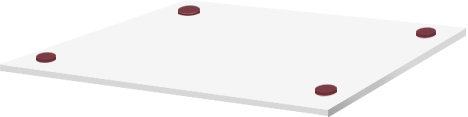
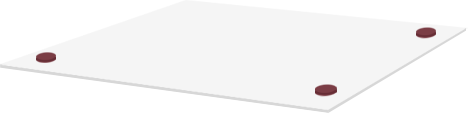
Changes images for `composition` block

diff --git a/src/index.html b/src/index.html
@@ -536,7 +536,7 @@
                         <div class="tooltip__wrap">
                           <div class="tooltip__icon"></div>
                           <div class="tooltip__text-wrap">
-                            <span class="tooltip__text">Верхний слой утеплителя</span>
+                            <span class="tooltip__text">Базальтовый утеплитель</span>
                           </div>
                         </div>
                       </div>
@@ -553,7 +553,7 @@
                         <div class="tooltip__wrap">
                           <div class="tooltip__icon"></div>
                           <div class="tooltip__text-wrap">
-                            <span class="tooltip__text">Нижний слой утеплителя</span>
+                            <span class="tooltip__text">Базальтовый утеплитель</span>
                           </div>
                         </div>
                       </div>

diff --git a/src/scss/blocks/advantages/composition.scss b/src/scss/blocks/advantages/composition.scss
@@ -36,7 +36,7 @@
   transform: translateY(-20%);
   transition: 0.4s ease-in-out;
   &--1 {
-    top: rem(-10);
+    top: rem(-20);
     z-index: 60;
   }
   &--2 {
@@ -48,7 +48,7 @@
     z-index: 40;
   }
   &--4 {
-    top: rem(90);
+    top: rem(107);
     z-index: 30;
   }
   &--5 {
@@ -60,7 +60,7 @@
   }
   .composition:hover & {
     &--1 {
-      top: -20%;
+      top: -30%;
     }
     &--2 {
       top: -10%;
@@ -71,7 +71,7 @@
       z-index: 60;
     }
     &--4 {
-      top: 20%;
+      top: 26%;
       z-index: 50;
     }
     &--5 {
